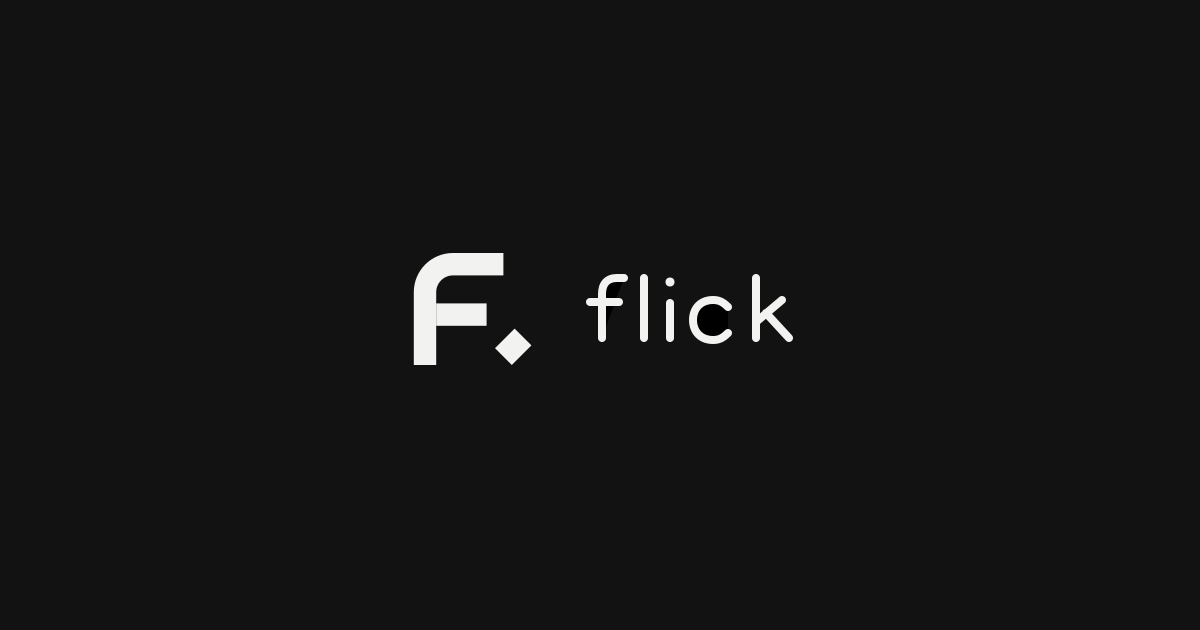
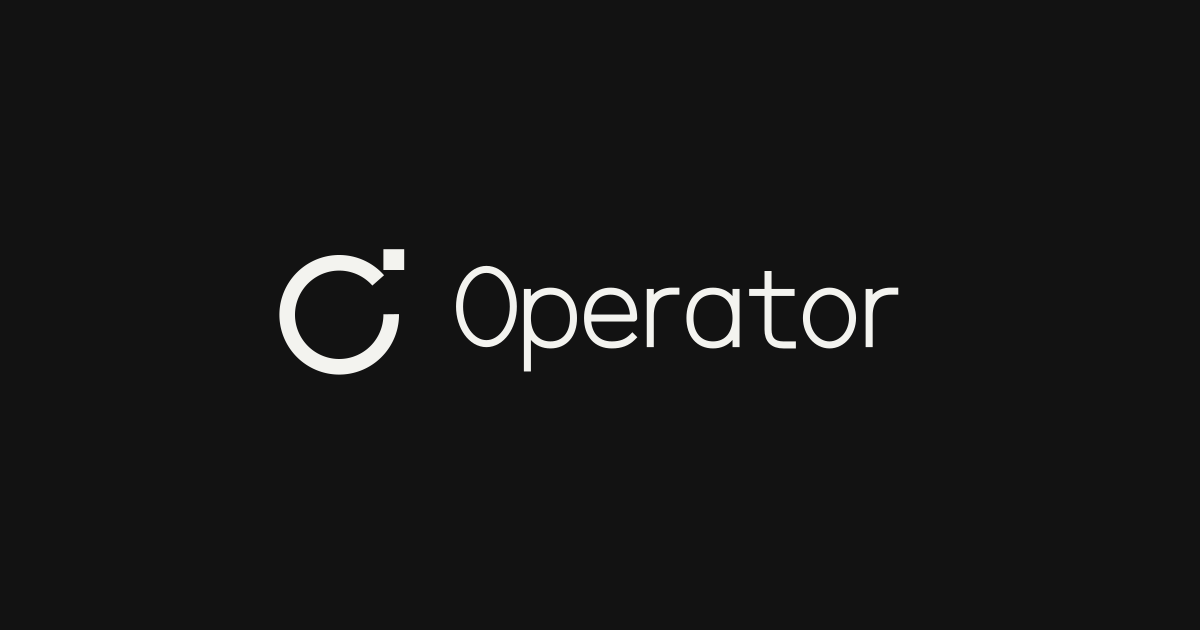
Rename the project Operator and add a minimal identity

Changed region(s): [[0.2158, 0.3921, 0.7708, 0.6032]]

diff --git a/docs/brand/README.md b/docs/brand/README.md
@@ -1,9 +1,9 @@
-# flick
+# Operator
 
-Lowercase, one word. A small motion that does something.
+An open O and one square contact. One color, precise geometry, no gradients or effects. The break in the ring gives the mark a direction; the detached square is the point of contact.
 
-The mark is an open **f** with one detached touch. One color; no gradients or effects. SVG uses `currentColor` and scales from the 128-unit grid. Use at 20 px or larger, with at least 16 units of clear space.
+Use `operator-mark.svg` at 20 px or larger. Keep at least one stroke of clear space. The wordmark is outlined vector geometry and needs no installed font. `preview.svg` and `preview.png` are the dark repository lockup; `operator-avatar.svg` is the square avatar.
 
-The brand is **flick**. Existing `sprint_*` MCP tool names and runner bundle IDs remain stable for installed clients. The runner keeps the centered Libraries.dev working orb.
+The app name is Operator. Existing `sprint_*` MCP tools and signing identifiers remain stable for installed clients. The phone screen keeps the official Libraries.dev ThinkingOrb, working state, centered at 64 pt on #121212. The brand mark does not replace the orb.
 
-The symbol and wordmark are original vector paths; no font file or font outlines are bundled. MIT, like this repository.
+Original vector artwork, MIT, like the repository.

diff --git a/README.md b/README.md
@@ -1,6 +1,6 @@
-# flick
+# Operator
 
-![flick](docs/brand/preview.png)
+![Operator](docs/brand/preview.png)
 
 Tiny, general iPhone control for coding agents. One signed XCTest runner, a USB relay, and **three MCP tools**. No saved routines, mandatory cloud service, video stream, npm packages, or extra model API. The optional JEV loop is off until configured and explicitly requested.
 
@@ -36,7 +36,7 @@ The setup defaults to `/opt/homebrew/bin/iproxy`; use `--iproxy /absolute/path/t
 Register the persistent stdio MCP process:
 
 ```sh
-codex mcp add iphone-sprint -- node /absolute/path/to/iphone-sprint/src/cli.mjs mcp
+codex mcp add operator -- node /absolute/path/to/Operator/src/cli.mjs mcp
 ```
 
 Other MCP clients can use the same `node` command and absolute script path. **Control stays silent:** observe/execute verify native media volume at zero, lower it only when necessary, and stop if mute cannot be verified. Volume is not automatically restored. Tools:
